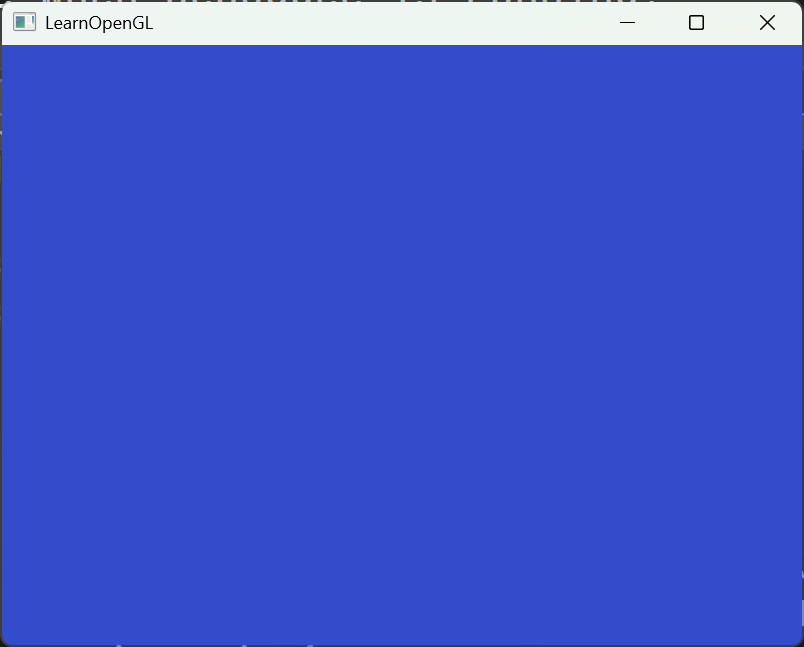
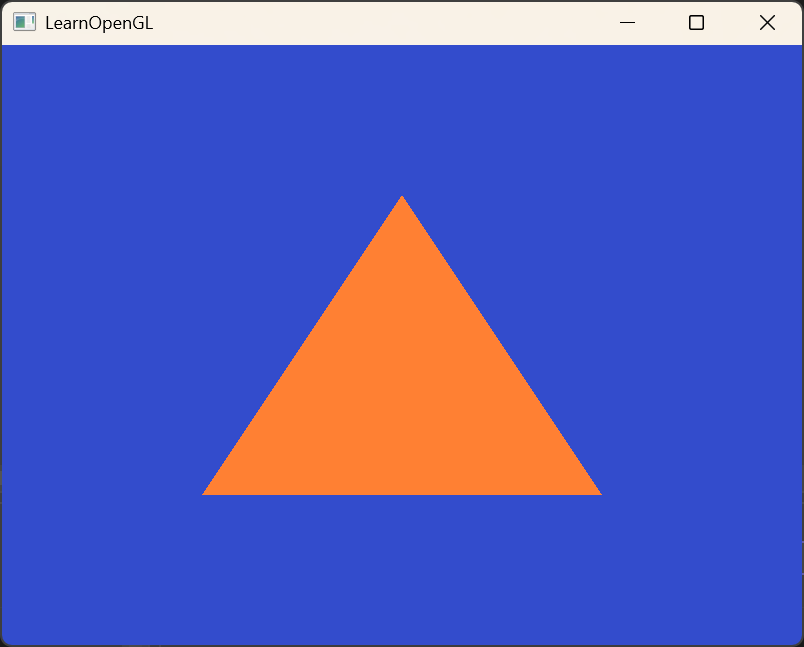
绘制出第一个三角形

Changed region(s): [[0.2488, 0.3091, 0.7463, 0.7728], [0.995, 0.9274, 1.0, 0.9892], [0.995, 0.8655, 1.0, 0.8964]]

diff --git a/README.md b/README.md
@@ -3,3 +3,199 @@
 
 ## 运行结果
 ![](results/out.png)
+
+## OpenGL<font color=green>图形渲染管线</font>（Graphics Pipeline）
+图形渲染管线可以被划分为 **两个** 主要部分：
+1. 把你的3D坐标转换为2D坐标
+2. 把2D坐标转变为实际的有颜色的像素
+
+<div style="background-color:#d8f5d8; padding: 10px; border-radius: 10px; color: black;">
+  2D坐标和像素也是不同的，2D坐标精确表示一个点在2D空间中的位置，而2D像素是这个点的近似值，2D像素受到你的屏幕/窗口分辨率的限制。
+</div>
+</br>
+
+图形渲染管线接受一组3D坐标，然后把它们转变为你屏幕上的有色2D像素输出。图形渲染管线可以被划分为几个阶段，每个阶段将会 **把前一个阶段的输出作为输入** 。所有这些阶段都是高度专门化的（它们都有一个特定的函数），并且很容易并行执行。
+
+图形渲染管线的每个阶段的抽象展示。蓝色部分代表的是我们可以注入 **自定义的着色器** 的部分。
+![](results/pipeline.png)
+
+图形渲染管线的第一个部分是<font color=green>顶点着色器</font>(Vertex Shader)，它把一个单独的顶点作为输入。顶点着色器主要的目的是把3D坐标转为另一种3D坐标（后面会解释），同时顶点着色器允许我们对顶点属性进行一些基本处理。
+
+顶点着色器阶段的输出可以选择性地传递给<font color=green>几何着色器</font>(Geometry Shader)。几何着色器将一组顶点作为输入，这些顶点形成图元，并且能够通过发出新的顶点来形成新的(或其他)图元来生成其他形状。在这个例子中，它从给定的形状中生成第二个三角形。
+
+<font color=green>图元装配</font>(Primitive Assembly)阶段将顶点着色器（或几何着色器）输出的所有顶点作为输入（如果是GL_POINTS，那么就是一个顶点），并将所有的点装配成指定图元的形状；本节例子中是两个三角形。
+
+图元装配阶段的输出会被传入<font color=green>光栅化阶段</font>(Rasterization Stage)，这里它会把图元映射为最终屏幕上相应的像素，生成供片段着色器(Fragment Shader)使用的片段(Fragment)。在片段着色器运行之前会执行<font color=green>裁切</font>(Clipping)。裁切会丢弃超出你的视图以外的所有像素，用来提升执行效率。
+
+<div style="background-color:#d8f5d8; padding: 10px; border-radius: 10px; color: black;">
+  OpenGL中的一个片段是OpenGL渲染一个像素所需的所有数据。
+</div>
+</br>
+
+<font color=green>片段着色器</font>的主要目的是计算一个像素的最终颜色，这也是所有OpenGL高级效果产生的地方。通常，片段着色器包含3D场景的数据（比如光照、阴影、光的颜色等等），这些数据可以被用来计算最终像素的颜色。
+
+在所有对应颜色值确定以后，最终的对象将会被传到最后一个阶段，我们叫做<font color=green>Alpha测试</font>和<font color=green>混合</font>(Blending)阶段。这个阶段检测片段的对应的深度（和模板(Stencil)）值（后面会讲），用它们来判断这个像素是其它物体的前面还是后面，决定是否应该丢弃。这个阶段也会检查<font color=green>alpha</font>值（alpha值定义了一个物体的透明度）并对物体进行<font color=green>混合</font>(Blend)。所以，即使在片段着色器中计算出来了一个像素输出的颜色，在渲染多个三角形的时候最后的像素颜色也可能完全不同。
+
+在现代OpenGL中，我们**必须**定义至少一个顶点着色器和一个片段着色器（因为GPU中没有默认的顶点/片段着色器）。
+
+### 顶点输入
+OpenGL不是简单地把**所有的**3D坐标变换为屏幕上的2D像素；OpenGL仅当3D坐标在3个轴（x、y和z）上-1.0到1.0的范围内时才处理它。所有在这个范围内的坐标叫做<font color=green>标准化设备坐标</font>(Normalized Device Coordinates)，此范围内的坐标最终显示在屏幕上（在这个范围以外的坐标则不会显示）。
+
+一旦你的顶点坐标已经在顶点着色器中处理过，它们就应该是**标准化设备坐标**了，标准化设备坐标是一个x、y和z值在-1.0到1.0的一小段空间。下面你会看到我们定义的在标准化设备坐标中的三角形(忽略z轴)：
+![](results/ndc.png)
+
+与通常的屏幕坐标**不同**，y轴正方向为向上，(0, 0)坐标是这个图像的中心，而不是左上角。最终你希望所有(变换过的)坐标都在这个坐标空间中，否则它们就不可见了。
+
+通过使用由`glViewport`函数提供的数据，进行<font color=green>视口变换</font>(Viewport Transform)，<font color=green>标准化设备坐标</font>(Normalized Device Coordinates)会变换为<font color=green>屏幕空间坐标</font>(Screen-space Coordinates)。所得的屏幕空间坐标又会被变换为片段输入到片段着色器中。定义这样的顶点数据以后，我们会把它作为输入发送给图形渲染管线的第一个处理阶段：顶点着色器。它会在GPU上创建内存用于储存我们的顶点数据，还要配置OpenGL如何解释这些内存，并且指定其如何发送给显卡。顶点着色器接着会处理我们在内存中指定数量的顶点。
+
+我们通过<font color=green>顶点缓冲对象</font>(Vertex Buffer Objects, VBO)管理这个内存，它会在GPU内存（通常被称为显存）中储存大量顶点。使用这些缓冲对象的好处是我们可以 **一次性的发送一大批数据** 到显卡上，而不是每个顶点发送一次。
+
+我们可以使用`glGenBuffers`函数生成一个带有缓冲ID的VBO对象：
+```cpp
+unsigned int VBO;
+glGenBuffers(1, &VBO);
+```
+OpenGL有很多缓冲对象类型，顶点缓冲对象的缓冲类型是`GL_ARRAY_BUFFER`。OpenGL允许我们同时绑定多个缓冲，只要它们是不同的缓冲类型。我们可以使用`glBindBuffer`函数把新创建的缓冲绑定到`GL_ARRAY_BUFFER`目标上：
+```cpp
+glBindBuffer(GL_ARRAY_BUFFER, VBO);  
+```
+从这一刻起，我们使用的任何（在`GL_ARRAY_BUFFER`目标上的）缓冲调用都会用来配置当前绑定的缓冲(VBO)。然后我们可以调用`glBufferData`函数，它会把之前定义的顶点数据复制到缓冲的内存中：
+```cpp
+glBufferData(GL_ARRAY_BUFFER, sizeof(vertices), vertices, GL_STATIC_DRAW);
+```
+`glBufferData`是一个专门用来把用户定义的数据复制到当前绑定缓冲的函数。它的第一个参数是目标缓冲的类型：顶点缓冲对象当前绑定到`GL_ARRAY_BUFFER`目标上。第二个参数指定传输数据的大小(以字节为单位)；用一个简单的`sizeof`计算出顶点数据大小就行。第三个参数是我们希望发送的实际数据。
+
+第四个参数指定了我们希望显卡如何管理给定的数据。它有三种形式：
+- `GL_STATIC_DRAW`：数据不会或几乎不会改变。
+- `GL_DYNAMIC_DRAW`：数据会被改变很多。
+- `GL_STREAM_DRAW`：数据每次绘制时都会改变。
+
+三角形的位置数据不会改变，每次渲染调用时都保持原样，所以它的使用类型最好是`GL_STATIC_DRAW`。如果，比如说一个缓冲中的数据将频繁被改变，那么使用的类型就是`GL_DYNAMIC_DRAW`或`GL_STREAM_DRAW`，这样就能确保显卡把数据放在能够高速写入的内存部分。
+
+### 顶点着色器
+```glsl
+#version 330 core
+layout (location = 0) in vec3 aPos;
+
+void main()
+{
+    gl_Position = vec4(aPos.x, aPos.y, aPos.z, 1.0);
+}
+```
+
+### 编译着色器
+我们首先要做的是创建一个着色器对象，注意还是用ID来引用的。所以我们储存这个顶点着色器为`unsigned int`，然后用`glCreateShader`创建这个着色器：
+```cpp
+unsigned int vertexShader;
+vertexShader = glCreateShader(GL_VERTEX_SHADER);
+```
+我们把需要创建的着色器类型以参数形式提供给`glCreateShader`。由于我们正在创建一个顶点着色器，传递的参数是`GL_VERTEX_SHADER`。
+
+下一步我们把这个着色器源码附加到着色器对象上，然后编译它：
+```cpp
+glShaderSource(vertexShader, 1, &vertexShaderSource, NULL);
+glCompileShader(vertexShader);
+```
+`glShaderSource`函数把要编译的着色器对象作为第一个参数。第二参数指定了传递的源码字符串数量，这里只有一个。第三个参数是顶点着色器真正的源码，第四个参数我们先设置为`NULL`。
+
+### 片段着色器
+片段着色器所做的是计算像素最后的颜色输出。
+```glsl
+#version 330 core
+out vec4 FragColor;
+
+void main()
+{
+    FragColor = vec4(1.0f, 0.5f, 0.2f, 1.0f);
+} 
+```
+片段着色器只需要一个输出变量，这个变量是一个4分量向量，它表示的是最终的输出颜色，我们应该自己将其计算出来。声明输出变量可以使用`out`关键字，这里我们命名为`FragColor`。
+
+编译片段着色器的过程与顶点着色器类似，只不过我们使用`GL_FRAGMENT_SHADER`常量作为着色器类型。
+
+两个着色器现在都编译了，剩下的事情是把两个着色器对象链接到一个用来渲染的<font color=green>着色器程序</font>(Shader Program)中。
+
+#### 着色器程序
+着色器程序对象(Shader Program Object)是多个着色器合并之后并最终链接完成的版本。如果要使用刚才编译的着色器我们必须把它们<font color=green>链接</font>(Link)为一个着色器程序对象，然后在渲染对象的时候激活这个着色器程序。已激活着色器程序的着色器将在我们发送渲染调用的时候被使用。
+
+`glCreateProgram`函数创建一个程序，并返回新创建程序对象的ID引用。现在我们需要把之前编译的着色器附加到程序对象上，然后用`glLinkProgram`链接它们：
+```cpp
+unsigned int shaderProgram;
+shaderProgram = glCreateProgram();
+glAttachShader(shaderProgram, vertexShader);
+glAttachShader(shaderProgram, fragmentShader);
+glLinkProgram(shaderProgram);
+```
+
+把着色器对象链接到程序对象以后，记得删除着色器对象，我们不再需要它们了：
+```cpp
+glDeleteShader(vertexShader);
+glDeleteShader(fragmentShader);
+```
+
+### 链接顶点属性
+顶点着色器允许我们指定任何以顶点属性为形式的输入。这使其具有很强的灵活性的同时，它还的确意味着我们必须手动指定输入数据的哪一个部分对应顶点着色器的哪一个顶点属性。所以，我们必须在渲染前指定OpenGL该如何解释顶点数据。
+
+我们的顶点缓冲数据会被解析为下面这样子：
+![](results/vertex_attribute_pointer.png)
+- 位置数据被储存为32位（4字节）浮点值。
+- 每个位置包含3个这样的值。
+- 在这3个值之间没有空隙（或其他值）。这几个值在数组中紧密排列(Tightly Packed)。
+- 数据中第一个值在缓冲开始的位置。
+
+有了这些信息我们就可以使用`glVertexAttribPointer`函数告诉OpenGL该如何解析顶点数据（应用到逐个顶点属性上）了：
+```cpp
+glVertexAttribPointer(0, 3, GL_FLOAT, GL_FALSE, 3 * sizeof(float), (void*)0);
+glEnableVertexAttribArray(0);
+```
+
+### 顶点数组对象
+<font color=green>顶点数组对象</font>(Vertex Array Object, <font color=green>VAO</font>)可以像顶点缓冲对象那样被绑定，任何随后的顶点属性调用都会储存在这个VAO中。这样的好处就是，当配置顶点属性指针时，你只需要将那些调用执行一次，之后再绘制物体的时候只需要绑定相应的VAO就行了。
+
+<div style="background-color:#ffd2d2; padding: 10px; border-radius: 10px; color: black;">
+  OpenGL的核心模式要求我们使用VAO，所以它知道该如何处理我们的顶点输入。如果我们绑定VAO失败，OpenGL会拒绝绘制任何东西。
+</div>
+
+一个顶点数组对象会储存以下这些内容：
+- `glEnableVertexAttribArray`和`glDisableVertexAttribArray`的调用。
+- 通过`glVertexAttribPointer`设置的顶点属性配置。
+- 通过`glVertexAttribPointer`调用与顶点属性关联的顶点缓冲对象。
+
+创建一个VAO类似创建一个VBO：
+```cpp
+unsigned int VAO;
+glGenVertexArrays(1, &VAO);
+```
+要想使用VAO，要做的只是使用`glBindVertexArray`绑定VAO。从绑定之后起，我们应该绑定和配置对应的VBO和属性指针，之后解绑VAO供之后使用。当我们打算绘制一个物体的时候，我们只要在绘制物体前简单地把VAO绑定到希望使用的设定上就行了。
+```cpp
+// ..:: 初始化代码（只运行一次 (除非你的物体频繁改变)） :: ..
+// 1. 绑定VAO
+glBindVertexArray(VAO);
+// 2. 把顶点数组复制到缓冲中供OpenGL使用
+glBindBuffer(GL_ARRAY_BUFFER, VBO);
+glBufferData(GL_ARRAY_BUFFER, sizeof(vertices), vertices, GL_STATIC_DRAW);
+// 3. 设置顶点属性指针
+glVertexAttribPointer(0, 3, GL_FLOAT, GL_FALSE, 3 * sizeof(float), (void*)0);
+glEnableVertexAttribArray(0);
+
+[...]
+
+// ..:: 绘制代码（渲染循环中） :: ..
+// 4. 绘制物体
+glUseProgram(shaderProgram);
+glBindVertexArray(VAO);
+someOpenGLFunctionThatDrawsOurTriangle();
+```
+一般当你打算绘制多个物体时，你首先要生成/配置所有的VAO（和必须的VBO及属性指针），然后储存它们供后面使用。当我们打算绘制物体的时候就拿出相应的VAO，绑定它，绘制完物体后，再解绑VAO。
+
+### 第一个三角形
+要想绘制我们想要的物体，OpenGL给我们提供了`glDrawArrays`函数，它使用当前激活的着色器，之前定义的顶点属性配置，和VBO的顶点数据（通过VAO间接绑定）来绘制图元。
+```cpp
+glUseProgram(shaderProgram);
+glBindVertexArray(VAO);
+glDrawArrays(GL_TRIANGLES, 0, 3);
+```
+`glDrawArrays`函数：
+- 第一个参数是我们打算绘制的OpenGL图元的类型。
+- 第二个参数指定了顶点数组的起始索引。
+- 最后一个参数指定我们打算绘制多少个顶点。
